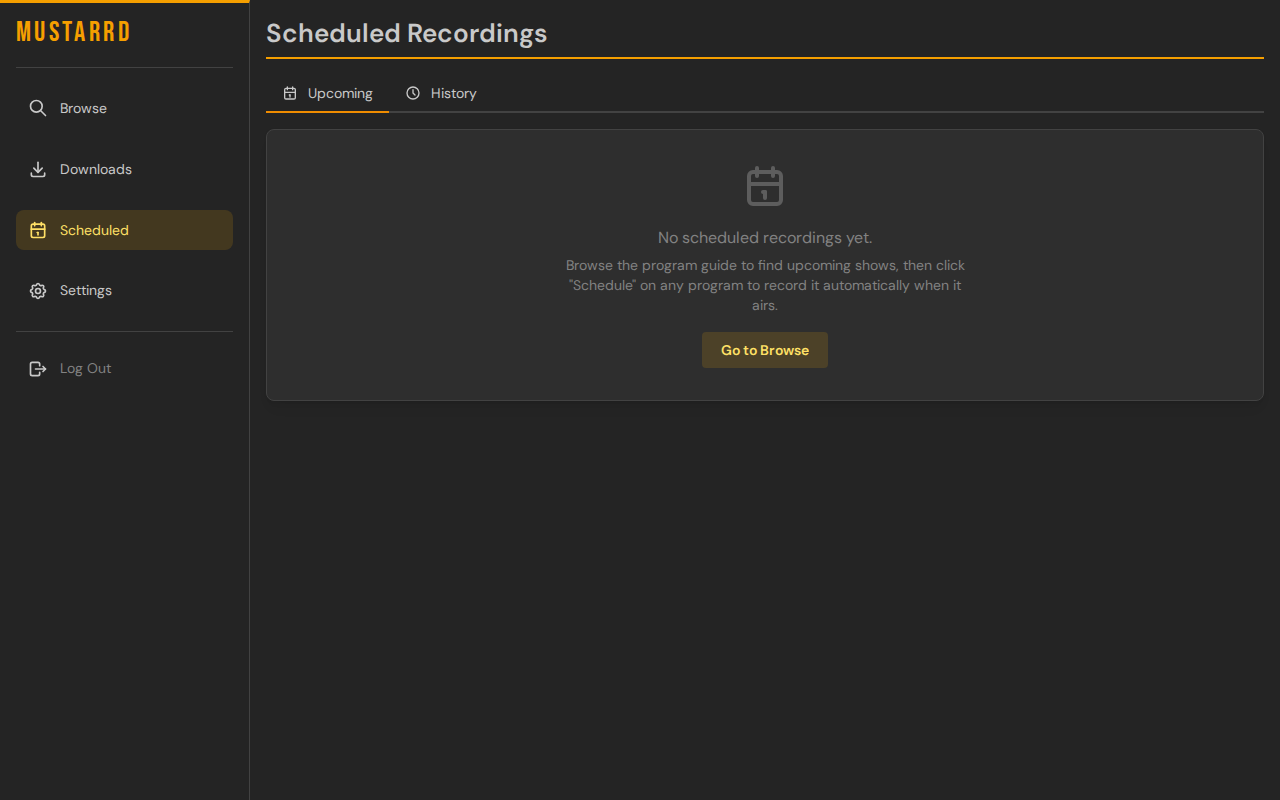
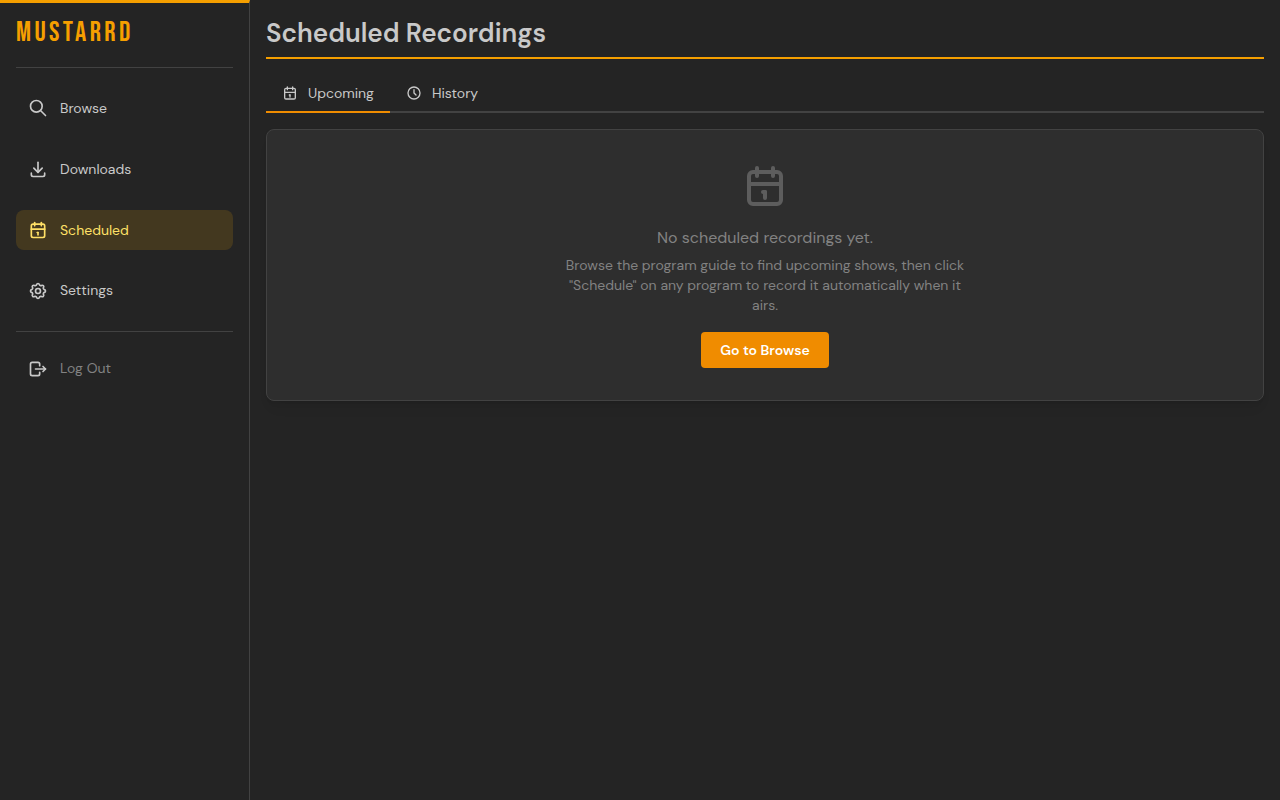
Make Scheduled empty-state CTA button orange for consistency
PR #29 (Downloads) removes variant="light" to get the filled orange
button. Apply the same one-line change here so both empty states use
the same primary CTA style.

Updated after screenshots.

diff --git a/frontend/src/pages/Scheduled.jsx b/frontend/src/pages/Scheduled.jsx
@@ -384,7 +384,7 @@ export default function Scheduled() {
                     Browse the program guide to find upcoming shows, then click "Schedule" on any program to record it automatically when it airs.
                   </Text>
                 </Stack>
-                <Button variant="light" onClick={() => navigate('/browse')}>
+                <Button onClick={() => navigate('/browse')}>
                   Go to Browse
                 </Button>
               </Stack>
